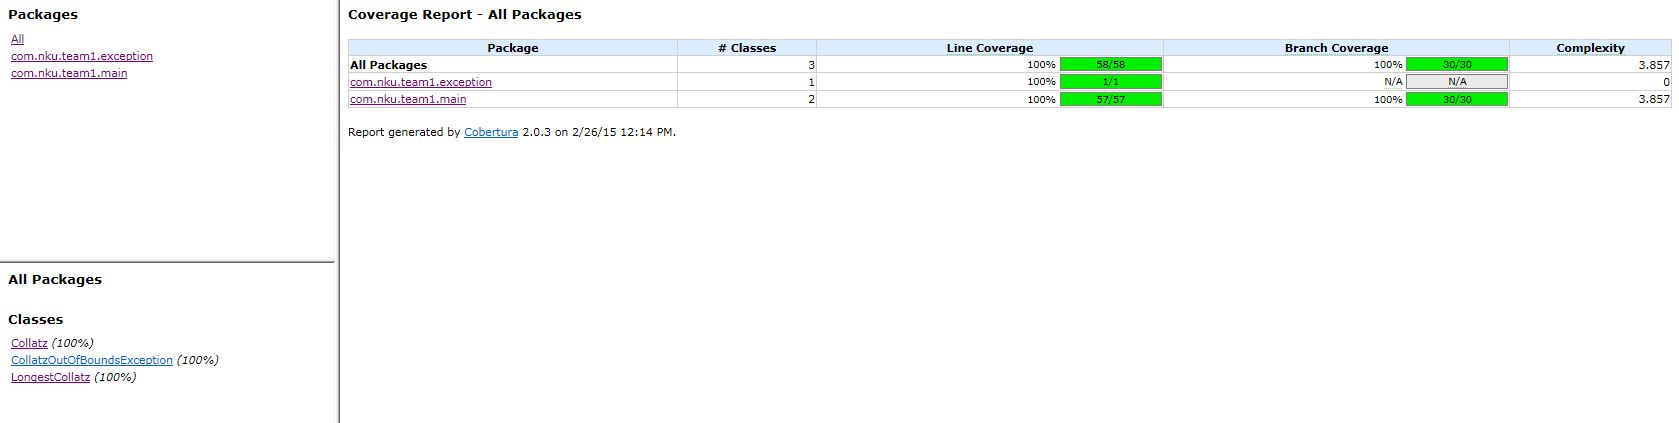
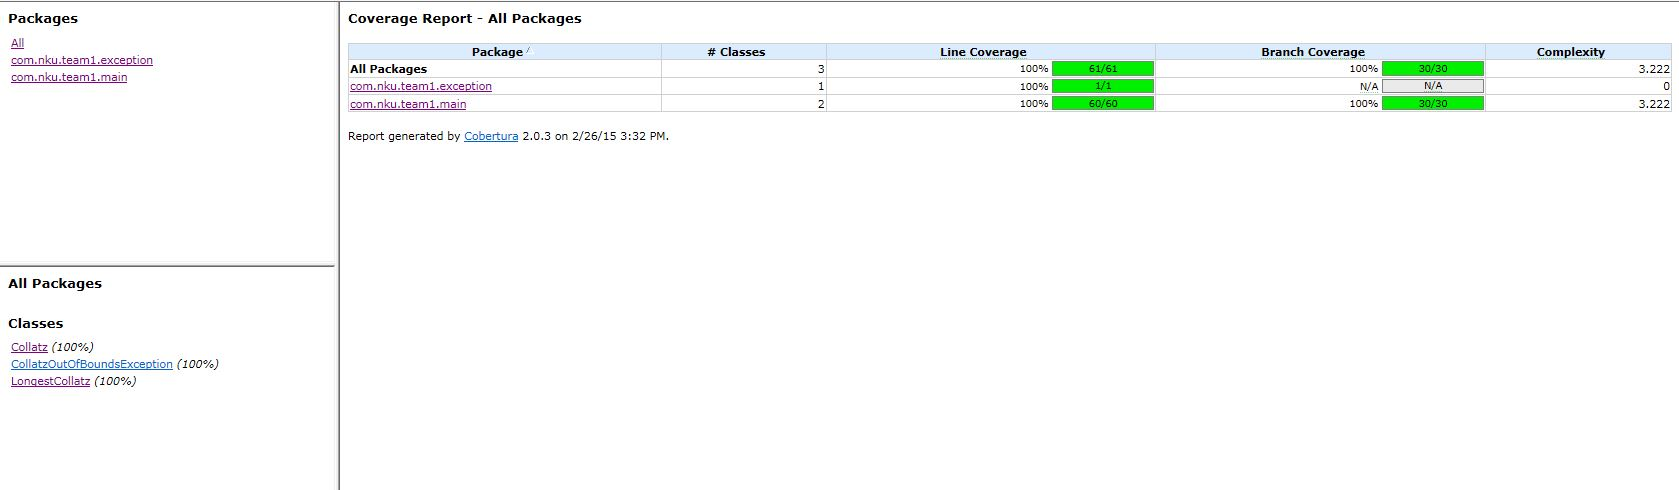
Added more test cases refactored some more

Changed region(s): [[0.0, 0.0, 1.0, 0.3381], [0.0, 0.5225, 0.1858, 0.922], [0.0, 0.0922, 0.0929, 0.1844]]

diff --git a/src/test/java/com/nku/team1/main/LongestCollatzTest.java b/src/test/java/com/nku/team1/main/LongestCollatzTest.java
@@ -3,7 +3,7 @@ package com.nku.team1.main;
 import static org.hamcrest.Matchers.lessThan;
 import static org.hamcrest.core.Is.is;
 import static org.hamcrest.core.IsEqual.equalTo;
-import static org.junit.Assert.assertThat;
+import static org.junit.Assert.*;
 
 import java.util.ArrayList;
 import java.util.Date;
@@ -34,26 +34,26 @@ public class LongestCollatzTest {
 		assertThat(lc.findLongest(10), is(equalTo(9)));
 	}
 
-	
 	@Test
 	public void findFor8() throws Exception {
 		assertThat(lc.findLongest(8), is(equalTo(7)));
 	}
-	
+
 	@Test
 	public void findFor1Mill() throws Exception {
 		assertThat(lc.findLongest(1000000), is(equalTo(837799)));
 	}
-	
+
 	@Test
 	public void findFor5Mill() throws Exception {
-		//adding start and end time to check that result is received in less than 10 sec
+		// adding start and end time to check that result is received in less
+		// than 10 sec
 		long start = new Date().getTime();
 		int result = lc.findLongest(1000000);
 		long end = new Date().getTime();
 		assertThat(result, is(equalTo(837799)));
-		//10,000 mils == 10sec
-		assertThat(end-start, is(lessThan(10000L)));
+		// 10,000 mils == 10sec
+		assertThat(end - start, is(lessThan(10000L)));
 	}
 
 	@Test
@@ -69,17 +69,16 @@ public class LongestCollatzTest {
 		seq.add(2L);
 		seq.add(1L);
 
-		//Empty map should cause the getSequence to return 0
-		Map<Long,Integer> map = new HashMap<Long,Integer>();
+		// Empty map should cause the getSequence to return 0
+		Map<Long, Integer> map = new HashMap<Long, Integer>();
 		int result = lc.createSequence(10, map);
 		assertThat(result, is(equalTo(0)));
-		for (int i = 0; i < lc.seq.size(); i++) 
-		{
+		for (int i = 0; i < lc.seq.size(); i++) {
 			assertThat(lc.seq.get(i), is(equalTo(seq.get(i))));
 		}
 
 	}
-	
+
 	@Test
 	public void getSequence4EmptyMap() throws Exception {
 		// Creating list to compare to This should be the resulting sequence for
@@ -87,67 +86,156 @@ public class LongestCollatzTest {
 		List<Long> seq = new ArrayList<Long>();
 		seq.add(4L);
 		seq.add(2L);
-		seq.add(1L);;
-		//Empty map should cause the getSequence to return 0
-		Map<Long,Integer> map = new HashMap<Long,Integer>();
-		
+		seq.add(1L);
+		;
+		// Empty map should cause the getSequence to return 0
+		Map<Long, Integer> map = new HashMap<Long, Integer>();
+
 		int result = lc.createSequence(4, map);
 		assertThat(result, is(equalTo(0)));
-		for (int i = 0; i < lc.seq.size(); i++) 
-		{
+		for (int i = 0; i < lc.seq.size(); i++) {
 			assertThat(lc.seq.get(i), is(equalTo(seq.get(i))));
 		}
 
 	}
-	
+
 	@Test
 	public void getSequence10FourInMap() throws Exception {
 		// Creating list to compare to This should be the resulting sequence for
-		// 10 and sequence will be truncated at 8 because the length of 4 is already established
+		// 10 and sequence will be truncated at 8 because the length of 4 is
+		// already established
 		List<Long> seq = new ArrayList<Long>();
 		seq.add(10L);
 		seq.add(5L);
 		seq.add(16L);
 		seq.add(8L);
 
-		//Map with 4 and value 3 should cause the getSequence to return 3 because 4 is in the sequence for 10
-		Map<Long,Integer> map = new HashMap<Long,Integer>();
-		map.put(4L, 3);	
+		// Map with 4 and value 3 should cause the getSequence to return 3
+		// because 4 is in the sequence for 10
+		Map<Long, Integer> map = new HashMap<Long, Integer>();
+		map.put(4L, 3);
 		int result = lc.createSequence(10, map);
 		assertThat(result, is(equalTo(3)));
-		for (int i = 0; i < lc.seq.size(); i++) 
-		{
+		for (int i = 0; i < lc.seq.size(); i++) {
 			assertThat(lc.seq.get(i), is(equalTo(seq.get(i))));
 		}
 	}
-	
+
 	@Test
 	public void getSequence4TwoInMap() throws Exception {
 		// Creating list to compare to This should be the resulting sequence for
-		// 4 and sequence will be truncated at 4 because the length of 2 is already established
+		// 4 and sequence will be truncated at 4 because the length of 2 is
+		// already established
 		List<Long> seq = new ArrayList<Long>();
 		seq.add(4L);
 
-		//Map with 2 and value 2 should cause the getSequence to return 2 because 2 is in the sequence for 4
-		Map<Long,Integer> map = new HashMap<Long,Integer>();
-		map.put(2L, 2);	
+		// Map with 2 and value 2 should cause the getSequence to return 2
+		// because 2 is in the sequence for 4
+		Map<Long, Integer> map = new HashMap<Long, Integer>();
+		map.put(2L, 2);
 		int result = lc.createSequence(4, map);
 		assertThat(result, is(equalTo(2)));
-		for (int i = 0; i < lc.seq.size(); i++) 
-		{
+		for (int i = 0; i < lc.seq.size(); i++) {
 			assertThat(lc.seq.get(i), is(equalTo(seq.get(i))));
 		}
 	}
-	
+
 	@Test
 	public void getNumbersInArrayFor10() throws Exception {
-		int[] numbers = {10,9,8,7,6,5,4,3,2,1};
+		int[] numbers = { 10, 9, 8, 7, 6, 5, 4, 3, 2, 1 };
 		int[] result = lc.getNumbersInArray(10);
-	
-		for (int i = 0; i < result.length; i++) 
-		{
+
+		for (int i = 0; i < result.length; i++) {
 			assertThat(result[i], is(equalTo(numbers[i])));
 		}
 	}
+
+	@Test
+	public void getMaxStartFor4() throws Exception {
+		int[] numbers = { 4, 3, 2, 1 };
+		Map<Long, Integer> map = new HashMap<Long, Integer>();
+		map.put(4L, 3);
+		map.put(3L, 8);
+		map.put(2L, 2);
+		map.put(1L, 1);
+
+		assertThat(lc.getStartForMaxLength(map, numbers), is(equalTo(3)));
+	}
+
+	@Test
+	public void getMaxStartWithWrongValues() throws Exception {
+		// This test will prove that the getStartForMaxLength will
+		// always return the key with the greatest value and it does not do any
+		// Collatz calulations
+		int[] numbers = { 4, 3, 2, 1 };
+		Map<Long, Integer> map = new HashMap<Long, Integer>();
+		map.put(4L, 3);
+		map.put(3L, 8);
+		map.put(2L, 2);
+		map.put(1L, 10);
+
+		assertThat(lc.getStartForMaxLength(map, numbers), is(equalTo(1)));
+	}
+
+	@Test
+	public void addSequenceToMap() throws Exception {
+		Map<Long, Integer> map = new HashMap<Long, Integer>();
+		int[] numbers = { 4, 3, 2, 1 };
+		lc.numbers = numbers;
+		// Creating list to use as the seq to be added and setting lc's seq to it
+		List<Long> seq = new ArrayList<Long>();
+		seq.add(4L);
+		seq.add(2L);
+		seq.add(1L);
+		lc.seq = seq;
+		
+		lc.addSequenceToMap(map, 4, 0);
+		//The add method should empty the sequence
+		assertThat(lc.seq.size(), is(equalTo(0)));
+		//The add method should mark 2 and 1 as zero because they are in 4's sequence
+		assertThat(lc.numbers[2], is(equalTo(0)));
+		assertThat(lc.numbers[3], is(equalTo(0)));
+		//The add method should not have marked 4 and 3 as zero because they are not in 4's sequence
+		assertThat(lc.numbers[0], is(equalTo(4)));
+		assertThat(lc.numbers[1], is(equalTo(3)));
+		//4,2 and 1 should all be in the map now with values of 3,2 and 1 respectively
+		assertNotNull(map.get(4L));
+		assertThat(map.get(4L), is(equalTo(3)));
+		assertNotNull(map.get(2L));
+		assertThat(map.get(2L), is(equalTo(2)));
+		assertNotNull(map.get(1L));
+		assertThat(map.get(1L), is(equalTo(1)));
+		
+	}
 	
+	@Test
+	public void addSequenceToMapWithAddedLength() throws Exception {
+		Map<Long, Integer> map = new HashMap<Long, Integer>();
+		int[] numbers = { 4, 3, 2, 1 };
+		lc.numbers = numbers;
+		// Creating list to use as the seq to be added and setting lc's seq to it
+		List<Long> seq = new ArrayList<Long>();
+		seq.add(4L);
+		seq.add(2L);
+		seq.add(1L);
+		lc.seq = seq;
+		//Making added length 3 will added 3 to the values put into the map on the previous test.
+		lc.addSequenceToMap(map, 4, 3);
+		//The add method should empty the sequence
+		assertThat(lc.seq.size(), is(equalTo(0)));
+		//The add method should mark 2 and 1 as zero because they are in 4's sequence
+		assertThat(lc.numbers[2], is(equalTo(0)));
+		assertThat(lc.numbers[3], is(equalTo(0)));
+		//The add method should not have marked 4 and 3 as zero because they are not in 4's sequence
+		assertThat(lc.numbers[0], is(equalTo(4)));
+		assertThat(lc.numbers[1], is(equalTo(3)));
+		//4,2 and 1 should all be in the map now with values of 3,2 and 1 respectively
+		assertNotNull(map.get(4L));
+		assertThat(map.get(4L), is(equalTo(3+3)));
+		assertNotNull(map.get(2L));
+		assertThat(map.get(2L), is(equalTo(2+3)));
+		assertNotNull(map.get(1L));
+		assertThat(map.get(1L), is(equalTo(1+3)));
+		
+	}
 }

diff --git a/src/main/java/com/nku/team1/main/LongestCollatz.java b/src/main/java/com/nku/team1/main/LongestCollatz.java
@@ -11,6 +11,7 @@ import com.nku.team1.exception.CollatzOutOfBoundsException;
 public class LongestCollatz {
 
 	protected List<Long> seq;
+	protected int[] numbers;
 
 	/**
 	 * Finds the starting point with the longest chain.
@@ -20,29 +21,41 @@ public class LongestCollatz {
 	 * @throws CollatzOutOfBoundsException will be thrown if n is < 1
 	 */
 	public int findLongest(int n) {
-		int maxLength = 0;
-		int maxKey = 0;
 
 		Map<Long, Integer> map = new HashMap<Long, Integer>();
-		int[] numbers = getNumbersInArray(n);
+		numbers = getNumbersInArray(n);
 
 		for (int i = 0; i < numbers.length; i++) {
 			if (numbers[i] == 0)
 				continue;
 			int addedLength = createSequence(numbers[i], map);
-			Iterator<Long> it = seq.iterator();
-			boolean isFirst = true;
-			while (it.hasNext()) {
-				long num = it.next();
-				map.put(num, seq.size() + addedLength);
-				if (!isFirst && num < n) {
-					numbers[(int)(n - num)] = 0;
-				}
-				it.remove();
-				isFirst = false;
-			}
+			addSequenceToMap(map, n, addedLength);
+			
 		}
 
+		return getStartForMaxLength(map, numbers);
+	}
+
+	protected void addSequenceToMap(Map<Long, Integer> map, int n, int addedLength) {
+		Iterator<Long> it = seq.iterator();
+		boolean isFirst = true;
+		while (it.hasNext()) {
+			long num = it.next();
+			map.put(num, seq.size() + addedLength);
+			if (!isFirst && num < n) {
+				numbers[(int)(n - num)] = 0;
+			}
+			it.remove();
+			isFirst = false;
+		}
+		
+	}
+
+	protected int getStartForMaxLength(Map<Long, Integer> map, int[] numbers) {
+
+		int maxLength = 0;
+		int maxKey = 0;
+		
 		for (int i : numbers) {
 			if (i == 0)
 				continue;
